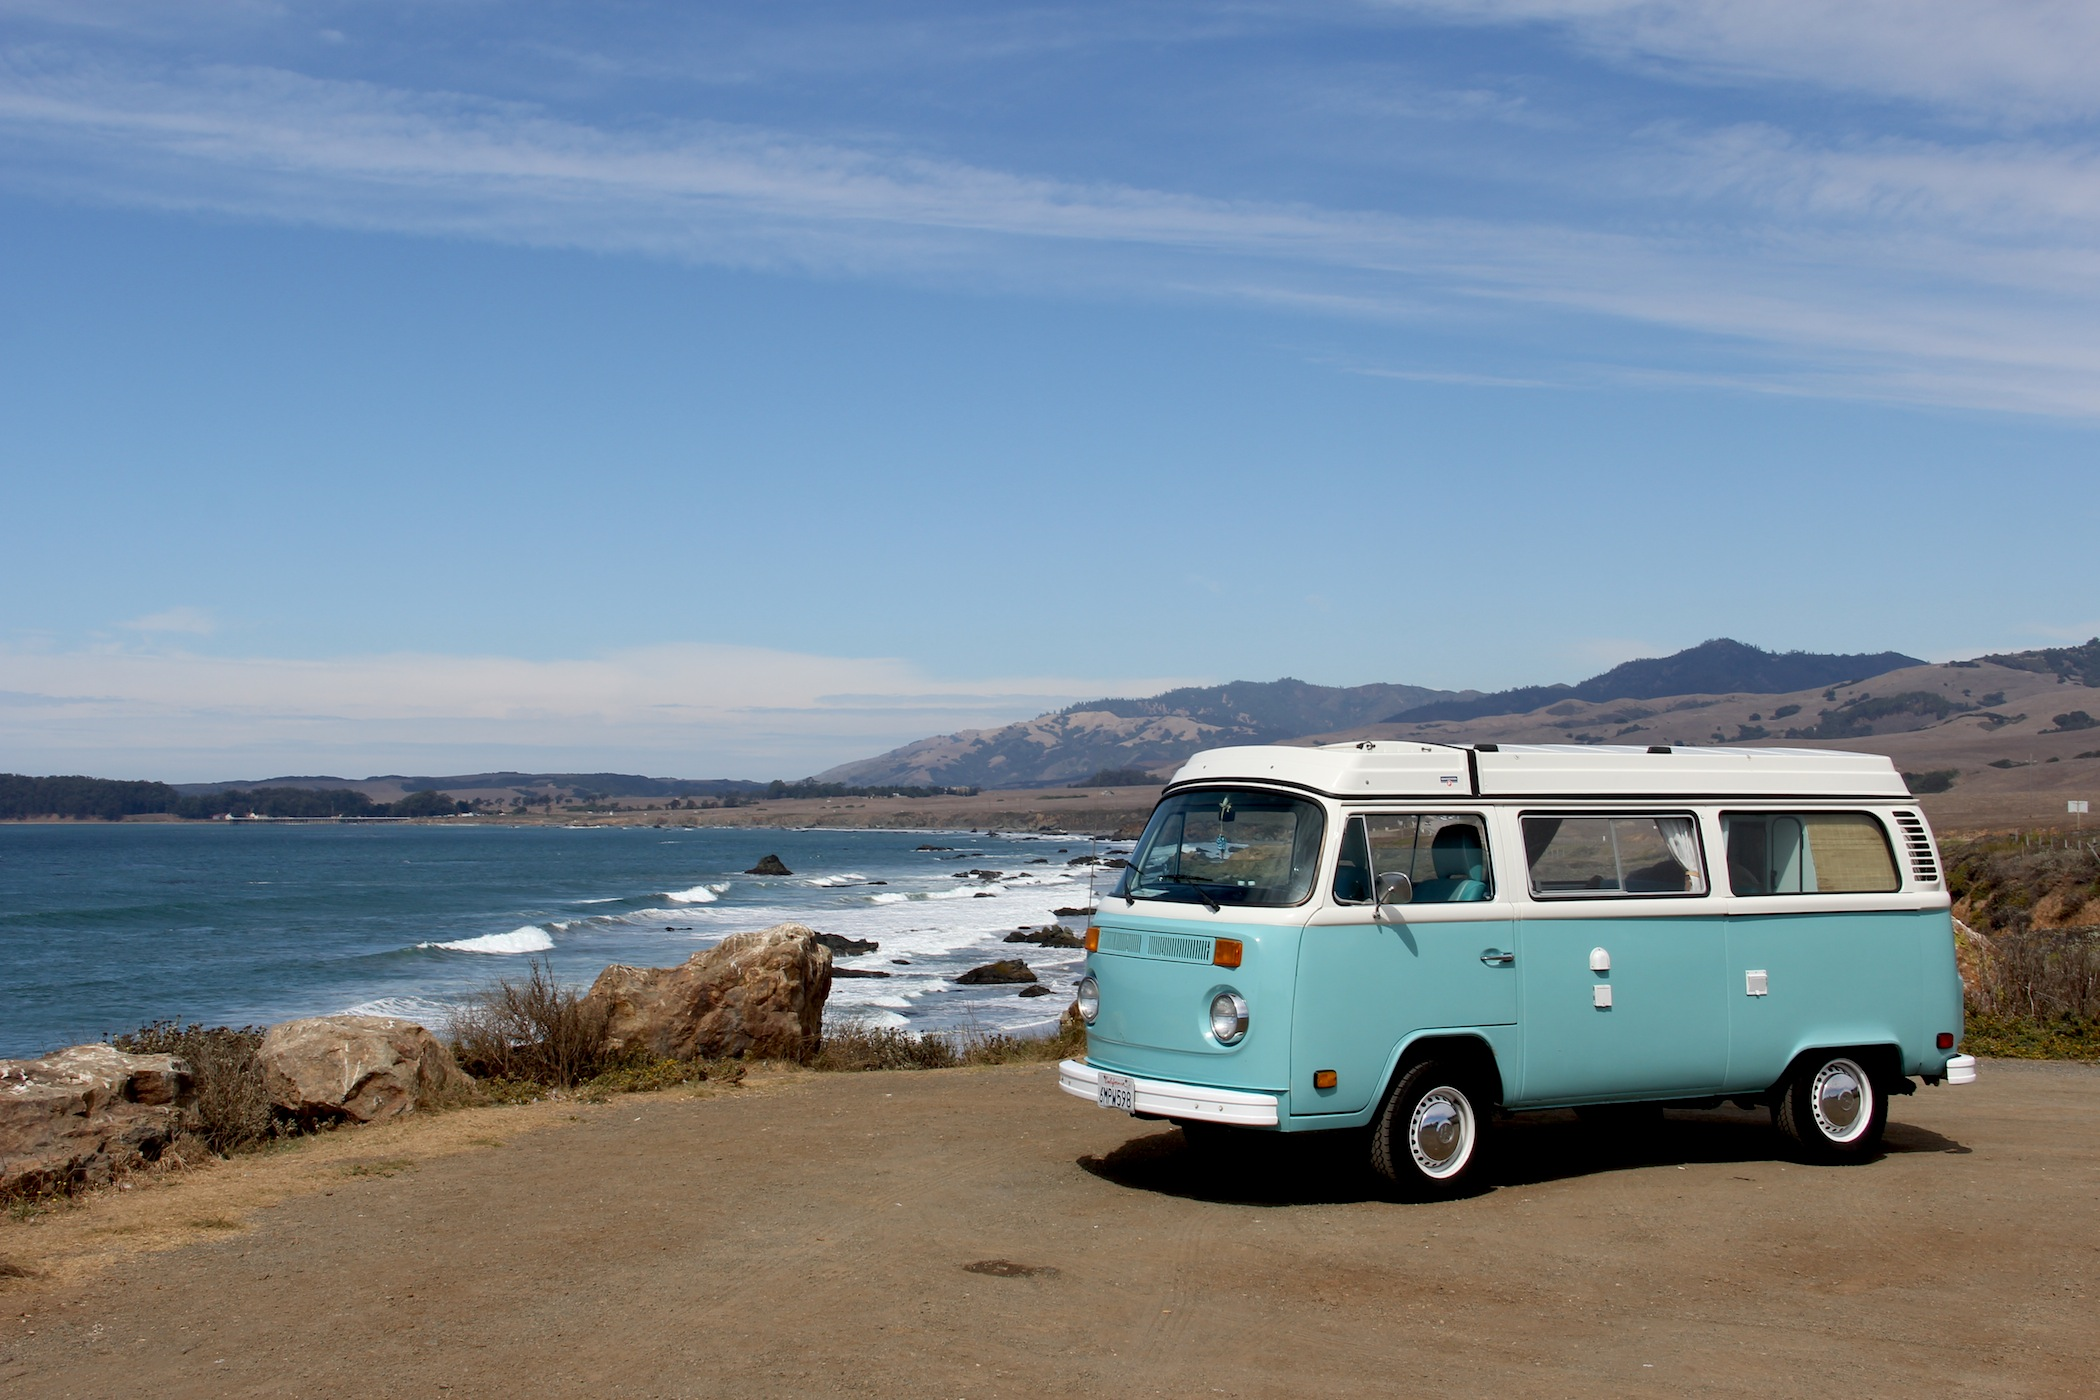
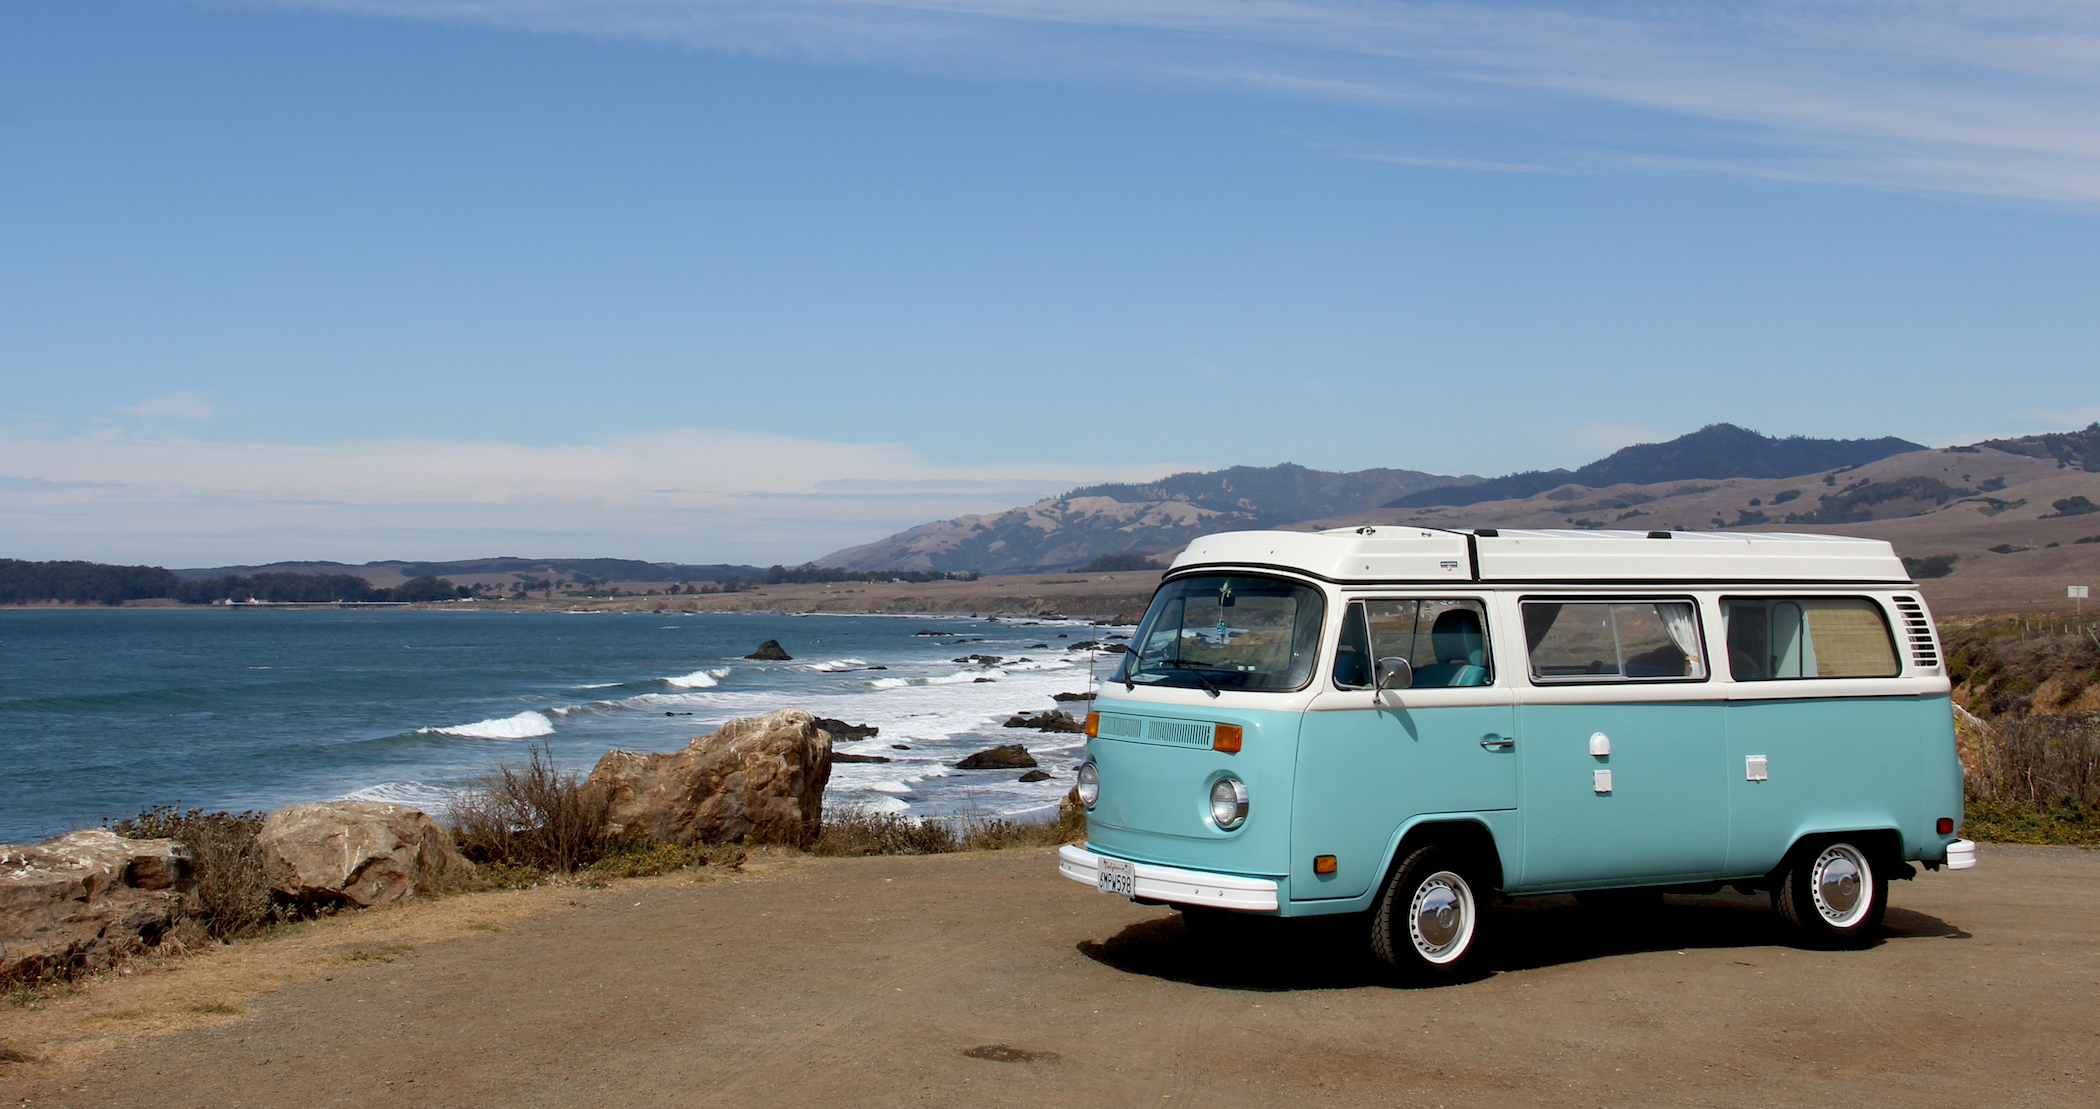
front home page

diff --git a/app/assets/stylesheets/layout/_footer.scss b/app/assets/stylesheets/layout/_footer.scss
@@ -1,1 +1,46 @@
 // Your footer style
+/* -------------------------------------
+ * Colors & Fonts
+ * ------------------------------------- */
+$footer-color: $gray-light;
+$footer-hover-color: $yellow;
+$footer-font-family: $navbar-font;
+$footer-font-size: 14px;
+$footer-text-transform: capitalize;
+$footer-font-weight: 300;
+$footer-letter-spacing: 1.5px;
+$footer-font-family: $navbar-font;
+$footer-bg: $gray-darker;
+
+/* -------------------------------------
+ * Box model
+ * ------------------------------------- */
+$footer-height: 70px;
+$footer-vertical-padding: 40px;
+$footer-horizontal-padding: 20px;
+$footer-border-top-width: 1px;
+$footer-border-top-color: $gray-lighter;
+
+
+/* -------------------------------------
+ * SCSS code
+ * ------------------------------------- */
+.footer-wagon {
+  background: $footer-bg;
+  font-family: $footer-font-family;
+  border: none;
+  font-size: $footer-font-size;
+  text-transform: $footer-text-transform;
+  font-weight: $footer-font-weight;
+  letter-spacing: $footer-letter-spacing;
+  padding-left: $footer-horizontal-padding;
+  padding-right: $footer-horizontal-padding;
+  padding-top: $footer-vertical-padding;
+  padding-bottom: $footer-vertical-padding;
+  border-top: $footer-border-top-width solid $footer-border-top-color;
+  transition: background 0.4s ease;
+}
+
+.footer {
+ min-height: $footer-height;
+}

diff --git a/app/assets/stylesheets/home.scss b/app/assets/stylesheets/home.scss
@@ -5,8 +5,9 @@
 #banner {
   background: url('Combi11.jpg');
   background-size: cover;
-  height: 800px;
-  padding-top: 300px;
+  padding-top: 260px;
+  height: 50vw;
+  width: 100vw;
   h1 {
     font-size: 100px;
   }
@@ -51,10 +52,6 @@
   // width: 300px;
 }
 
-// .container-app {
-//   margin-top: 70px;
-// }
-
 .text-center {
     text-align: center;
 }
@@ -66,3 +63,16 @@ body {
     color: #565A5C;
     padding-top: 70px;
 }
+
+#body-home {
+    font-family: Circular,"Helvetica Neue",Helvetica,Arial,sans-serif;
+    font-size: 14px;
+    line-height: 1.43;
+    color: #565A5C;
+    padding-top: 0px;
+}
+
+#searchbar {
+ color: black;
+}
+
